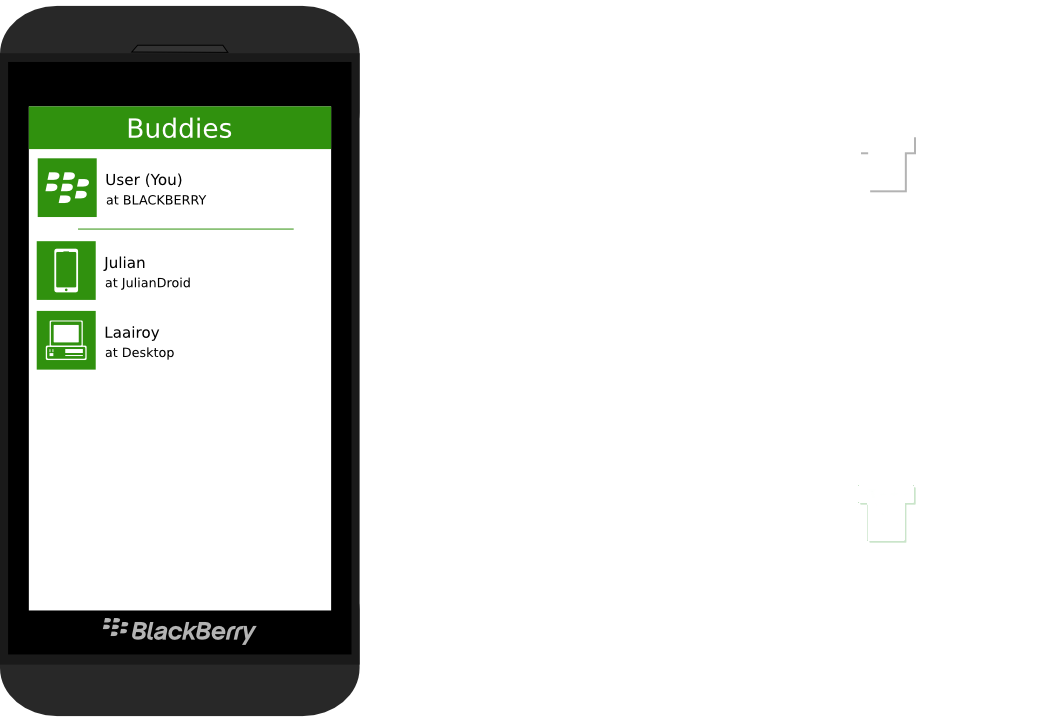
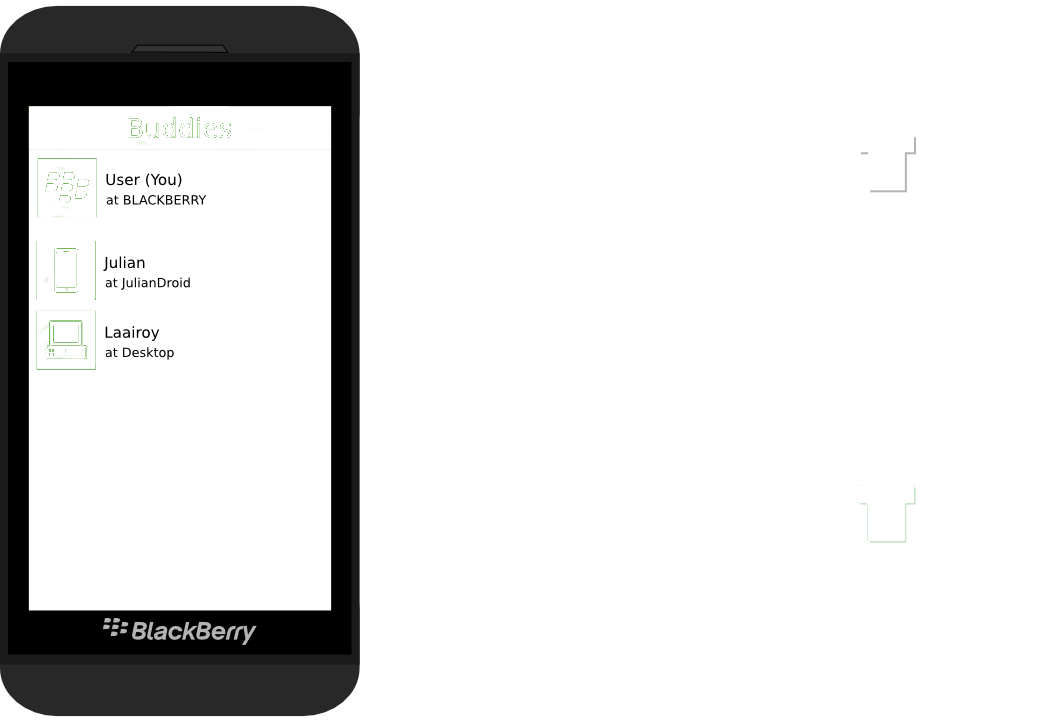
Fixed some bugs in UI.

Changed region(s): [[0.0305, 0.1219, 0.3359, 0.3047], [0.0305, 0.3352, 0.0916, 0.518]]

diff --git a/assets/CustomListIndicator.qml b/assets/CustomListIndicator.qml
@@ -1,7 +1,7 @@
 import bb.cascades 1.2
 
 Container {
-    property int number: 1
+    property string number: "1"
     layout: StackLayout {
         orientation: LayoutOrientation.LeftToRight
     }
@@ -9,7 +9,7 @@ Container {
         background: Color.White
         preferredHeight: 20
         preferredWidth: 20
-        opacity: (number == 1) ? 1 : 0.4
+        opacity: (number == "1") ? 1 : 0.4
     }
     Container {
         preferredWidth: 20
@@ -18,7 +18,7 @@ Container {
         background: Color.White
         preferredHeight: 20
         preferredWidth: 20
-        opacity: (number == 2) ? 1 : 0.4
+        opacity: (number == "2") ? 1 : 0.4
     }
     Container {
         preferredWidth: 20
@@ -27,7 +27,7 @@ Container {
         background: Color.White
         preferredHeight: 20
         preferredWidth: 20
-        opacity: (number == 3) ? 1 : 0.4
+        opacity: (number == "3") ? 1 : 0.4
     }
     Container {
         preferredWidth: 20
@@ -36,6 +36,6 @@ Container {
         background: Color.White
         preferredHeight: 20
         preferredWidth: 20
-        opacity: (number == 4) ? 1 : 0.4
+        opacity: (number == "4") ? 1 : 0.4
     }
 }

diff --git a/assets/Intro.qml b/assets/Intro.qml
@@ -31,9 +31,11 @@ Sheet {
             Container {
                 verticalAlignment: VerticalAlignment.Center
                 ListView {
-                    preferredWidth: 768
-                    preferredHeight: 900
+                    
                     id: listview
+                    property int screenSizeWidth: _control.displaySizeWidth()
+                    preferredWidth: screenSizeWidth
+                    preferredHeight: _control.displaySizeHeight() / 2
                     flickMode: FlickMode.SingleItem
                     snapMode: SnapMode.LeadingEdge
                     scrollIndicatorMode: ScrollIndicatorMode.None
@@ -48,8 +50,7 @@ Sheet {
                         ListItemComponent {
                             type: "intro"
                             Container {
-                                preferredWidth: 768
-                                preferredHeight: 900
+                                preferredWidth: ListItem.view.screenSizeWidth
                                 leftPadding: 50
                                 rightPadding: 50
                                 layout: DockLayout {

diff --git a/assets/CustomItemBuddy.qml b/assets/CustomItemBuddy.qml
@@ -22,14 +22,12 @@ Container {
                 timeout.connect(changeImage);
             }
         }
-        layoutProperties: StackLayoutProperties {
-            spaceQuota: 23
-        }
     }
     Container {
         preferredHeight: 150
         layout: DockLayout {
         }
+        leftPadding: 20
         Container {
             layout: DockLayout {
             }
@@ -47,9 +45,6 @@ Container {
                     textStyle.fontSize: FontSize.Medium
                 }
             }
-        }
-        layoutProperties: StackLayoutProperties {
-            spaceQuota: 77
         }
     }
 }

diff --git a/assets/ProgressPage.qml b/assets/ProgressPage.qml
@@ -51,9 +51,10 @@ Dialog {
                             id: progress
                             layout: DockLayout {
                             }
+                            horizontalAlignment: HorizontalAlignment.Left
                             preferredHeight: 100
                             background: Color.White
-                            preferredWidth: 700
+                            preferredWidth: _control.displaySizeWidth() - 60
                             opacity: 0.5
                         }
                         Container {

diff --git a/assets/SendData.qml b/assets/SendData.qml
@@ -21,11 +21,14 @@ Page {
         Container {
             leftPadding: 20
             topPadding: 20
+            horizontalAlignment: HorizontalAlignment.Fill
+            verticalAlignment: VerticalAlignment.Fill
+
             CustomItemBuddy {
                 id: buddy
                 userName: "Laai-Berry"
                 system: "BlackBerry"
-            
+
             }
             Container {
                 rightPadding: 20

diff --git a/assets/main.qml b/assets/main.qml
@@ -31,6 +31,7 @@ TabbedPane {
             },
             ActionItem {
                 title: qsTr("Help")
+                imageSource: "asset:///images/ic_help.png"
                 onTriggered: {
                     introSheet.createObject().open()
                 }

diff --git a/src/controller.cpp b/src/controller.cpp
@@ -7,6 +7,7 @@
 
 #include "controller.h"
 
+#include <bb/device/DisplayInfo>
 #include "protocol/platform.h"
 #include "miniwebserver.h"
 
@@ -569,4 +570,15 @@ void controller::aboutToQuit()
     if (m_miniWebServer)
         m_miniWebServer->deleteLater();
     qDebug() << "controller::~controller:" << "sayGoodbye";
+}
+
+int controller::displaySizeWidth()
+{
+    bb::device::DisplayInfo display;
+    return display.pixelSize().width();
+}
+int controller::displaySizeHeight()
+{
+    bb::device::DisplayInfo display;
+    return display.pixelSize().height();
 }

diff --git a/src/controller.h b/src/controller.h
@@ -89,7 +89,10 @@ public:
 	QString getHostName();
 	Q_INVOKABLE
 	void setThemeColor(QString color);
-
+	Q_INVOKABLE
+	int displaySizeWidth();
+	Q_INVOKABLE
+	int displaySizeHeight();
 signals:
 	void currentTransferBuddyChanged();
 	void onBuddyModelChanged();
